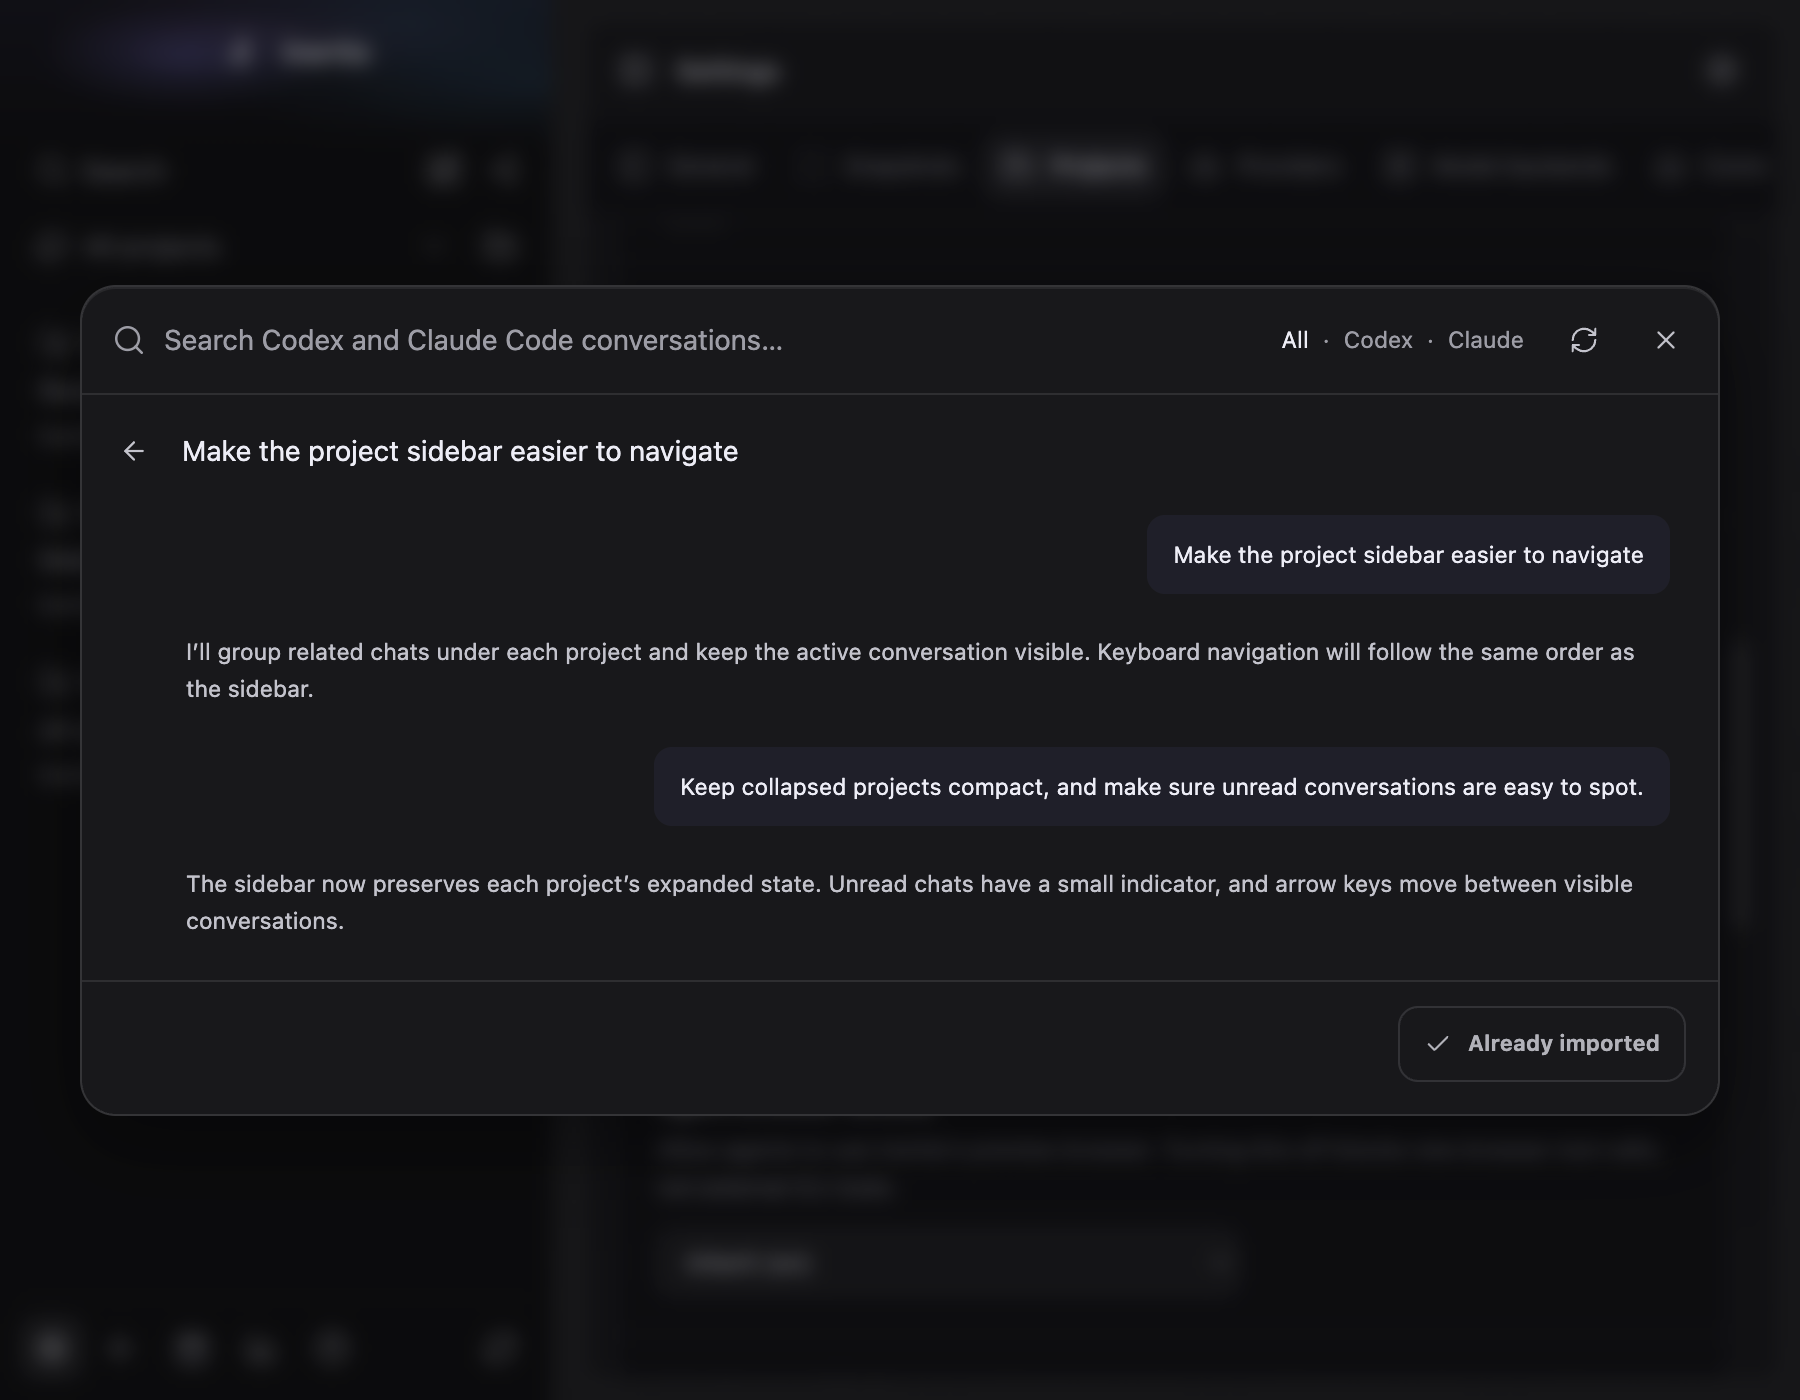
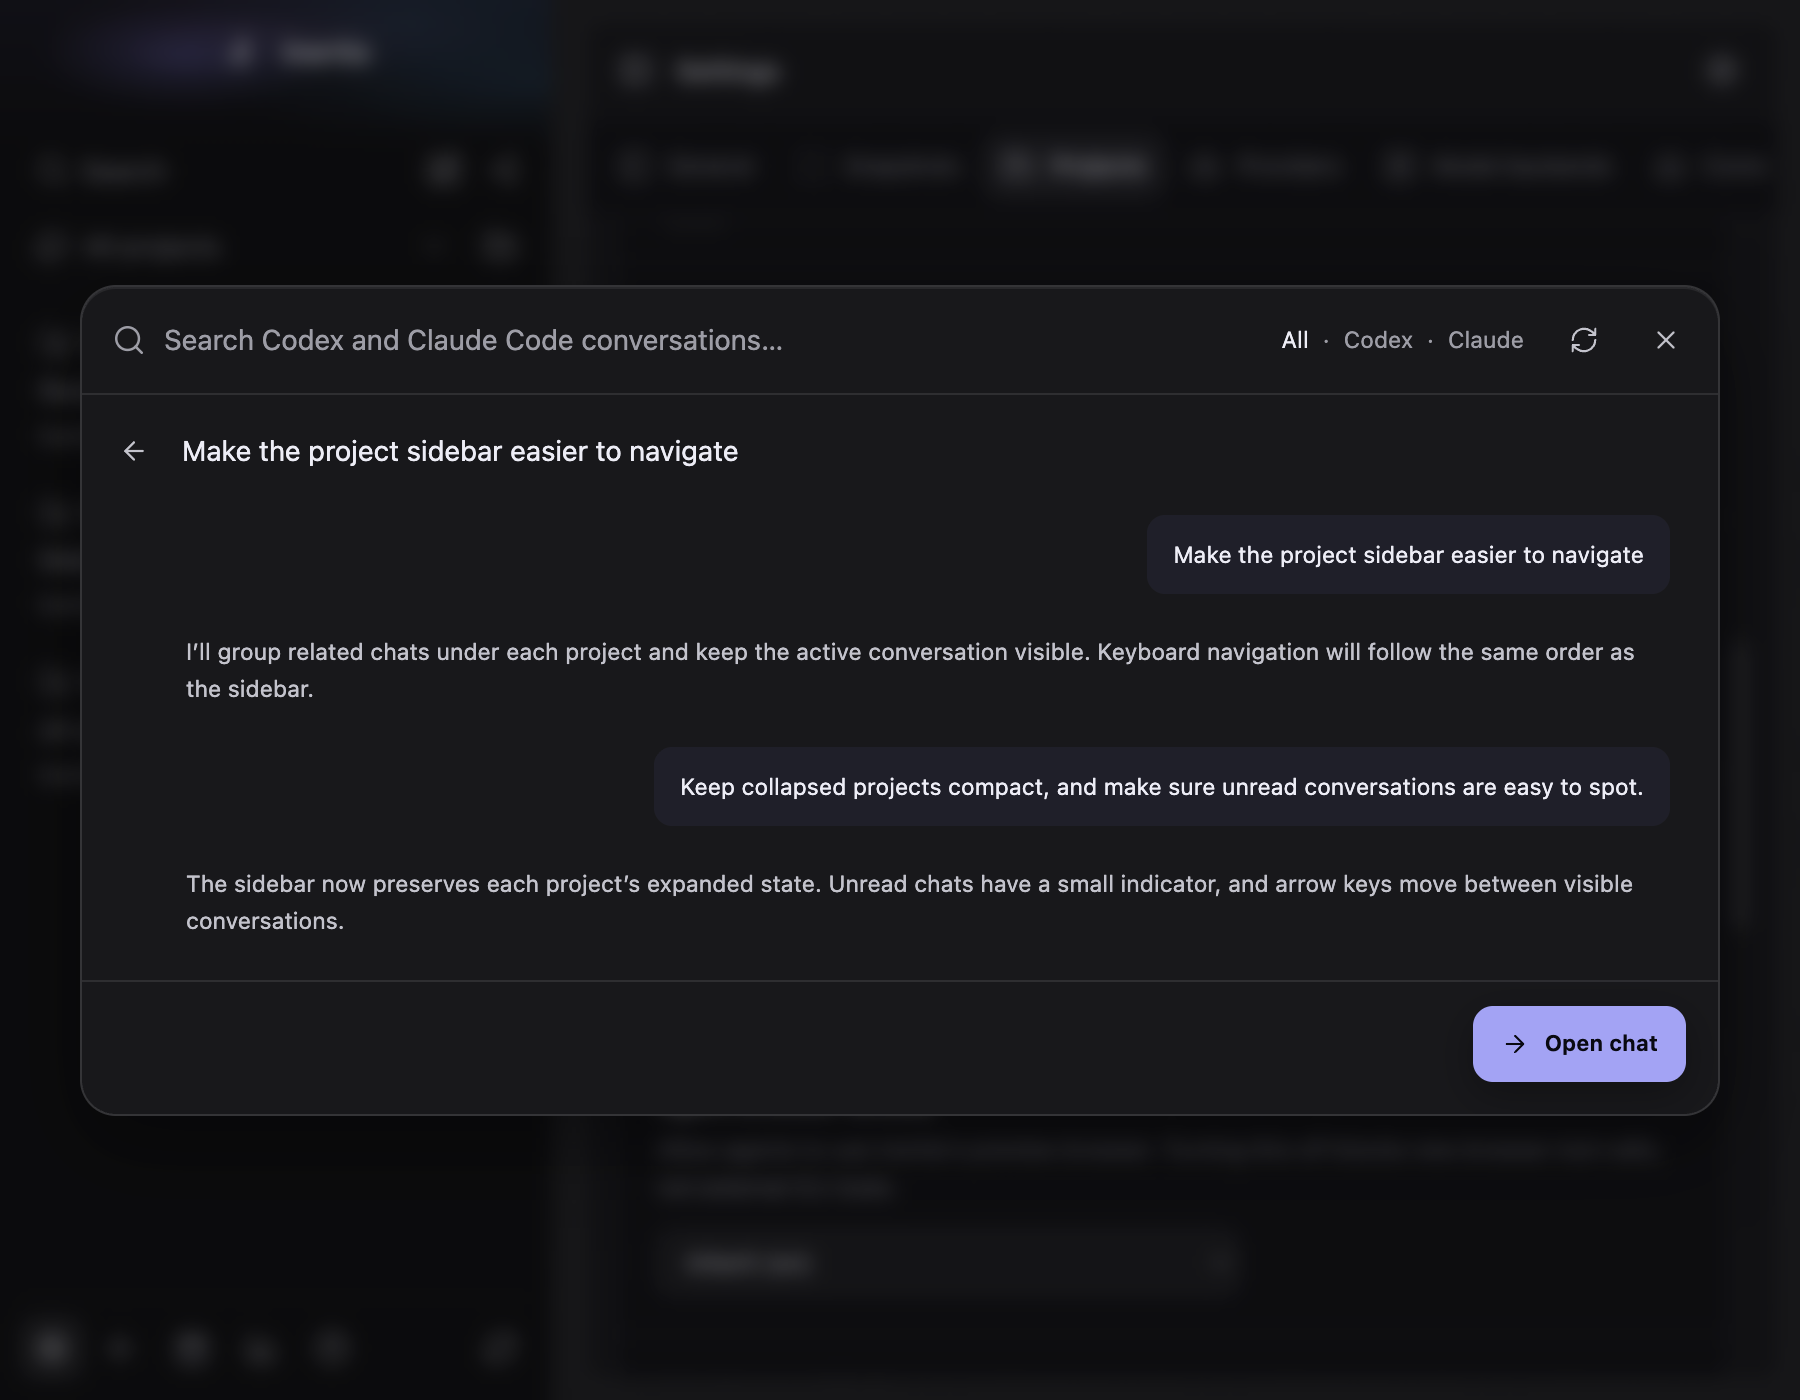
Note skipped conversations, search openings and open earlier imports from the gallery

Changed region(s): [[0.8089, 0.7064, 0.9644, 0.7986]]

diff --git a/tests/renderer/cli-conversation-import.dom.test.tsx b/tests/renderer/cli-conversation-import.dom.test.tsx
@@ -13,7 +13,7 @@ const candidates: CliConversationCandidate[] = [
 ];
 const importedId = "44444444-4444-4444-8444-444444444444";
 const result = (value: Extract<ServerEvent, { type: "request.result" }>["result"]): ServerEvent => ({ type: "request.result", requestId: "test", result: value });
-const scanOf = (items: CliConversationCandidate[]): ServerEvent => result({ kind: "conversation.cli.scan", scan: { candidates: items, limited: false, skipped: 0 } });
+const scanOf = (items: CliConversationCandidate[]): ServerEvent => result({ kind: "conversation.cli.scan", scan: { candidates: items, limited: false, skipped: 0, oversized: 0 } });
 const scan = scanOf([candidates[1]!, candidates[0]!]);
 const previewOf = (candidate: CliConversationCandidate, user: string, reply?: string): ServerEvent => result({ kind: "conversation.cli.preview", preview: { candidate, revision: "a".repeat(64), omittedMessages: 0,
   messages: [{ role: "user", content: user, createdAt: candidate.updatedAt }, ...reply ? [{ role: "assistant" as const, content: reply, createdAt: candidate.updatedAt }] : []] } });
@@ -103,7 +103,7 @@ describe("CLI import dialog", () => {
     expect(onClose).toHaveBeenCalledOnce();
     expect(onOpenConversation).toHaveBeenCalledWith(importedId);
   });
-  it("imports with the platform shortcut and shows Already imported for earlier imports", async () => {
+  it("imports with the platform shortcut and falls back to Already imported when the chat cannot be opened from here", async () => {
     const earlier = { ...candidates[1]!, importedConversationId: importedId };
     const request = requester((command) => command.type === "conversation.cli.scan" ? Promise.resolve(scanOf([candidates[0]!, earlier]))
       : command.type === "conversation.cli.preview" && command.payload.candidateId === earlier.id ? Promise.resolve(previewOf(earlier, "Accessibility request")) : undefined);
@@ -208,5 +208,72 @@ describe("CLI import dialog", () => {
     expect(dialog.querySelector("main, nav, aside, section section, [role=region], [role=complementary], h4, small, .dialog-icon")).toBeNull();
     expect(dialog).not.toHaveTextContent(/Codex and Claude Code conversations started|skipped|recent history|Close it in your terminal|Text history only|keeps its full history|text messages?/u);
     expect(dialog.querySelector(".cli-import-status")).toBeNull();
+  });
+  it("shows the scanning sentence from the very first render", () => {
+    const pendingScan = deferred<ServerEvent>();
+    let firstPaint: string | null | undefined;
+    const request = requester((command) => {
+      if (command.type !== "conversation.cli.scan") return undefined;
+      firstPaint = document.querySelector(".cli-import-body")?.textContent;
+      return pendingScan.promise;
+    });
+    render(<CliConversationImportDialog project={project} request={request} onClose={vi.fn()} />);
+    expect(firstPaint).toBe("Looking for conversations…");
+    expect(screen.getByRole("status")).toHaveTextContent(/^Looking for conversations…$/u);
+    expect(screen.queryByRole("list")).not.toBeInTheDocument();
+    expect(document.querySelector(".cli-import-note")).toBeNull();
+  });
+  it.each([
+    ["oversized and unreadable files", { limited: false, skipped: 5, oversized: 3 }, "3 conversations are too large to import; 2 conversations could not be read."],
+    ["one unreadable file", { limited: false, skipped: 1, oversized: 0 }, "1 conversation could not be read."],
+    ["a limited scan", { limited: true, skipped: 0, oversized: 0 }, "Showing recent conversations only."],
+    ["every case at once", { limited: true, skipped: 2, oversized: 1 }, "1 conversation is too large to import; 1 conversation could not be read; showing recent conversations only."],
+  ])("summarises %s in one muted line under the gallery", async (_case, counts, sentence) => {
+    const summary = { candidates: [candidates[0]!], ...counts };
+    const request = requester((command) => command.type === "conversation.cli.scan" ? Promise.resolve(result({ kind: "conversation.cli.scan", scan: summary })) : undefined);
+    render(<CliConversationImportDialog project={project} request={request} onClose={vi.fn()} />);
+    await screen.findByRole("list", { name: "CLI conversations" });
+    const notes = document.querySelectorAll(".cli-import-note");
+    expect(notes).toHaveLength(1);
+    expect(notes[0]).toHaveTextContent(new RegExp(`^${sentence.replace(/[.*+?^${}()|[\]\\]/gu, "\\$&")}$`, "u"));
+    expect(notes[0]!.compareDocumentPosition(screen.getByRole("list")) & Node.DOCUMENT_POSITION_PRECEDING).toBeTruthy();
+    fireEvent.click(card(/Build the sidebar/u));
+    await screen.findByRole("group", { name: "Build the sidebar" });
+    expect(document.querySelector(".cli-import-note")).toBeNull();
+  });
+  it("shows no note when the scan read everything", async () => {
+    render(<CliConversationImportDialog project={project} request={requester()} onClose={vi.fn()} />);
+    await screen.findByRole("list", { name: "CLI conversations" });
+    expect(document.querySelector(".cli-import-note")).toBeNull();
+  });
+  it("offers Open chat for a conversation imported earlier and opens it with a click or the shortcut", async () => {
+    const earlier = { ...candidates[1]!, importedConversationId: importedId };
+    const request = requester((command) => command.type === "conversation.cli.scan" ? Promise.resolve(scanOf([candidates[0]!, earlier]))
+      : command.type === "conversation.cli.preview" && command.payload.candidateId === earlier.id ? Promise.resolve(previewOf(earlier, "Accessibility request")) : undefined);
+    const onClose = vi.fn(); const onOpenConversation = vi.fn();
+    render(<CliConversationImportDialog project={project} request={request} onClose={onClose} onOpenConversation={onOpenConversation} />);
+    fireEvent.click(await findCard(/Review accessibility/u));
+    const openChat = await screen.findByRole("button", { name: "Open chat" });
+    expect(openChat).toHaveClass("primary-button");
+    expect(openChat).toHaveAttribute("aria-disabled", "false");
+    expect(screen.queryByRole("button", { name: "Already imported" })).not.toBeInTheDocument();
+    expect(screen.queryByRole("status")).not.toBeInTheDocument();
+    fireEvent.keyDown(openChat, shortcut(openChat));
+    expect(onClose).toHaveBeenCalledOnce();
+    expect(onOpenConversation).toHaveBeenCalledWith(importedId);
+    fireEvent.click(openChat);
+    expect(onOpenConversation).toHaveBeenCalledTimes(2);
+    expect(commands(request, "conversation.cli.import")).toBe(0);
+  });
+  it("matches the search against the opening exchange as well as the title", async () => {
+    render(<CliConversationImportDialog project={project} request={requester()} onClose={vi.fn()} />);
+    await screen.findByRole("list", { name: "CLI conversations" });
+    const search = screen.getByRole("textbox", { name: "Search CLI conversations" });
+    fireEvent.change(search, { target: { value: "accessibility REQUEST" } });
+    expect(within(screen.getByRole("list")).getAllByRole("button").map((button) => button.getAttribute("aria-label")?.split(",")[0])).toEqual(["Review accessibility"]);
+    fireEvent.change(search, { target: { value: "sidebar answer" } });
+    expect(within(screen.getByRole("list")).getAllByRole("button").map((button) => button.getAttribute("aria-label")?.split(",")[0])).toEqual(["Build the sidebar"]);
+    fireEvent.change(search, { target: { value: "nothing like this" } });
+    expect(screen.getByText("No conversations match your search.")).toBeInTheDocument();
   });
 });

diff --git a/src/renderer/src/components/CliConversationImportDialog.tsx b/src/renderer/src/components/CliConversationImportDialog.tsx
@@ -18,6 +18,17 @@ const importShortcut = mac ? "Meta+Enter" : "Control+Enter";
 const cardLabel = (date: Date): string => date.toLocaleString(undefined, date.getFullYear() === new Date().getFullYear()
   ? { month: "short", day: "numeric", hour: "numeric", minute: "2-digit" }
   : { month: "short", day: "numeric", year: "numeric", hour: "numeric", minute: "2-digit" });
+const scanNote = ({ limited, skipped, oversized }: Pick<CliConversationScan, "limited" | "skipped" | "oversized">): string | null => {
+  const unreadable = Math.max(0, skipped - oversized);
+  const parts = [
+    oversized > 0 ? `${plural(oversized, "conversation")} ${oversized === 1 ? "is" : "are"} too large to import` : null,
+    unreadable > 0 ? `${plural(unreadable, "conversation")} could not be read` : null,
+    limited ? "showing recent conversations only" : null,
+  ].filter((part): part is string => part !== null);
+  if (!parts.length) return null;
+  const sentence = parts.join("; ");
+  return `${sentence[0]!.toLocaleUpperCase()}${sentence.slice(1)}.`;
+};
 const fullLabel = (date: Date): string => date.toLocaleString(undefined, { dateStyle: "long", timeStyle: "short" });
 const accessibleName = (item: CliConversationCandidate): string =>
   `${item.title}, ${cliProviderLabel(item.providerId)}, ${fullLabel(new Date(item.updatedAt))}${item.importedConversationId ? ", imported" : ""}`;
@@ -34,7 +45,7 @@ export function CliConversationImportDialog({ project, request, disabled = false
   const [openId, setOpenId] = useState<string | null>(null);
   const [query, setQuery] = useState("");
   const [provider, setProvider] = useState("all");
-  const [busy, setBusy] = useState<"scan" | "preview" | "import" | null>(null);
+  const [busy, setBusy] = useState<"scan" | "preview" | "import" | null>(disabled ? null : "scan");
   const [error, setError] = useState<string | null>(null);
   const [imported, setImported] = useState(false);
   const epoch = useRef(0);
@@ -110,7 +121,7 @@ export function CliConversationImportDialog({ project, request, disabled = false
 
   const rows = (scan?.candidates ?? [])
     .filter((item) => (provider === "all" || item.providerId === provider)
-      && `${item.title} ${cliProviderLabel(item.providerId)}`.toLocaleLowerCase().includes(query.toLocaleLowerCase()))
+      && [item.title, cliProviderLabel(item.providerId), item.opening.user, item.opening.assistant ?? ""].join("\n").toLocaleLowerCase().includes(query.toLocaleLowerCase()))
     .sort((left, right) => Date.parse(right.updatedAt) - Date.parse(left.updatedAt));
   const cardId = (id: string): string => `${idPrefix}-card-${id}`;
   useLayoutEffect(() => {
@@ -133,7 +144,7 @@ export function CliConversationImportDialog({ project, request, disabled = false
     cards[Math.min(Math.max(target, 0), cards.length - 1)]?.focus();
   };
 
-  const openedId = imported && preview?.candidate.importedConversationId && onOpenConversation ? preview.candidate.importedConversationId : null;
+  const openedId = preview?.candidate.importedConversationId && onOpenConversation ? preview.candidate.importedConversationId : null;
   const openChat = (): void => {
     if (!openedId || !onOpenConversation) return;
     onClose();
@@ -145,6 +156,7 @@ export function CliConversationImportDialog({ project, request, disabled = false
   const importUnavailable = !preview || Boolean(busy) || disabled || alreadyImported;
   const scanUnavailable = Boolean(busy) || disabled;
   const status = error ? diagnosticErrorReference(error).message : imported ? "Imported." : null;
+  const note = scan && busy !== "scan" && !openId ? scanNote(scan) : null;
   const galleryState = busy === "scan" ? "Looking for conversations…"
     : error ? diagnosticErrorReference(error).message
       : scan && !rows.length ? scan.candidates.length ? "No conversations match your search." : "No CLI conversations found." : null;
@@ -230,6 +242,7 @@ export function CliConversationImportDialog({ project, request, disabled = false
                   </div>;
                 })}
               </div>}
+          {note && <p className="cli-import-note">{note}</p>}
         </div>
       </section>
     </div>, document.body,

diff --git a/tests/e2e/cli-conversation-import.spec.ts b/tests/e2e/cli-conversation-import.spec.ts
@@ -119,7 +119,7 @@ test("imports both native histories, persists duplicates across restart, and res
   await app.page.getByRole("radio", { name: "Dark", exact: true }).click();
   await openImporter(app.page);
   await dialog.getByRole("button", { name: new RegExp(codexTitle, "u") }).click();
-  await expect(dialog.getByRole("button", { name: "Already imported", exact: true })).toBeDisabled();
+  await expect(dialog.getByRole("button", { name: "Open chat", exact: true })).toBeEnabled();
   await capture(info, "cli-import-imported-dark");
   await app.resizeWindow(900, 700);
   await capture(info, "cli-import-compact-dark");
@@ -136,7 +136,9 @@ test("imports both native histories, persists duplicates across restart, and res
   await app.restart();
   await openImporter(app.page);
   await app.page.getByRole("dialog").getByRole("button", { name: new RegExp(codexTitle, "u") }).click();
-  await expect(app.page.getByRole("button", { name: "Already imported", exact: true })).toBeDisabled();
+  await app.page.getByRole("dialog").getByRole("button", { name: "Open chat", exact: true }).click();
+  await expect(app.page.getByRole("dialog", { name: "Import CLI conversations" })).toHaveCount(0);
+  await expect(app.page.getByText("Continued the original CLI conversation.", { exact: true })).toBeVisible();
   expect(await readFile(codexFile, "utf8")).toBe(originalCodex);
   expect(await readFile(claudeFile, "utf8")).toBe(originalClaude);
   expect(app.rendererErrors).toEqual([]);

diff --git a/src/renderer/src/components/CliConversationImportDialog.css b/src/renderer/src/components/CliConversationImportDialog.css
@@ -111,6 +111,18 @@
   text-align: center;
 }
 
+.cli-import-note {
+  flex: 0 0 auto;
+  margin: 0;
+  padding: 10px 16px 14px;
+  border-top: 1px solid var(--border);
+  color: var(--text-muted);
+  font-size: var(--ui-font-secondary);
+  line-height: 1.45;
+  text-align: center;
+  overflow-wrap: anywhere;
+}
+
 .cli-import-gallery {
   display: grid;
   min-height: 0;

diff --git a/docs/pr-evidence/cli-conversation-import/README.md b/docs/pr-evidence/cli-conversation-import/README.md
@@ -36,12 +36,14 @@ candidate or preview title may be clipped.
   fresh preview so an import uses the current revision. Escape goes back to
   the gallery and returns focus to the card; Escape in the gallery closes the
   importer.
-- After an import the button becomes "Open chat", which closes the importer
-  and opens the chat. Cmd+Enter on macOS or Ctrl+Enter elsewhere runs the
-  button. "Already imported" stays a quiet secondary button; busy buttons
-  use `aria-disabled`, so focus stays put.
-- Empty, scanning and error states are one centred muted sentence, and all
-  motion is off under reduced motion.
+- After an import, and for conversations imported earlier, the button is
+  "Open chat", which closes the importer and opens the chat. Cmd+Enter on
+  macOS or Ctrl+Enter elsewhere runs the button. Busy buttons use
+  `aria-disabled`, so focus stays put.
+- Empty, scanning and error states are one centred muted sentence, shown
+  from the first paint. When a scan was limited or left files out, one muted
+  line under the gallery says so. All motion is off under reduced motion.
+- Search matches titles and the opening request and reply.
 - The settings entry is one Row in the Checkout card: "Import Codex and
   Claude Code conversations started in this checkout."
 
